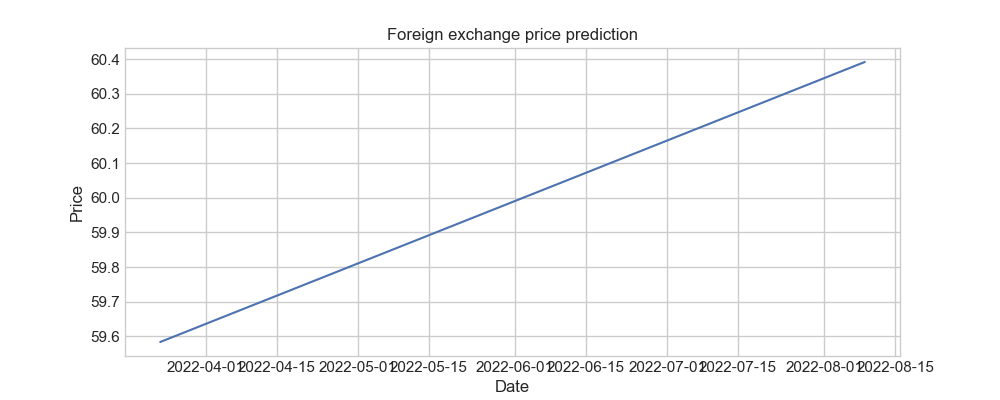
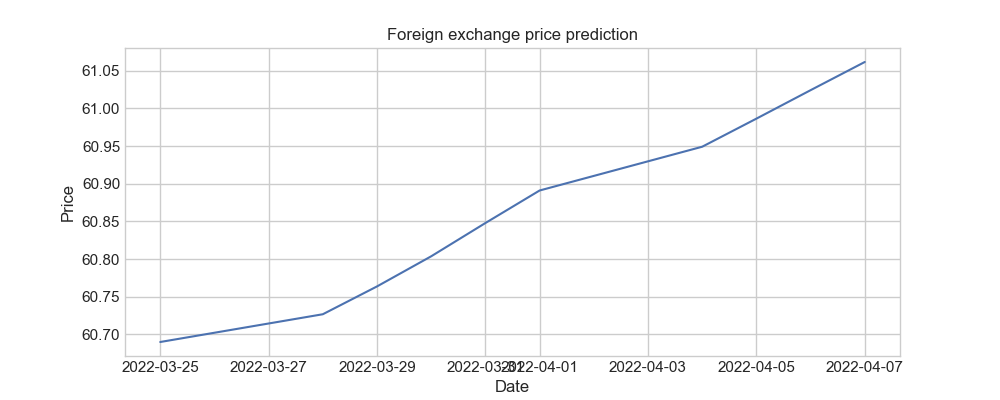
Update #4

diff --git a/predict.py b/predict.py
@@ -28,7 +28,7 @@ def forecast_rate(currency, days):
 
 
 # Initial variables
-days = 100
+days = 10
 
 # Plot the forecast results
 plt.figure(figsize=(10, 4))
